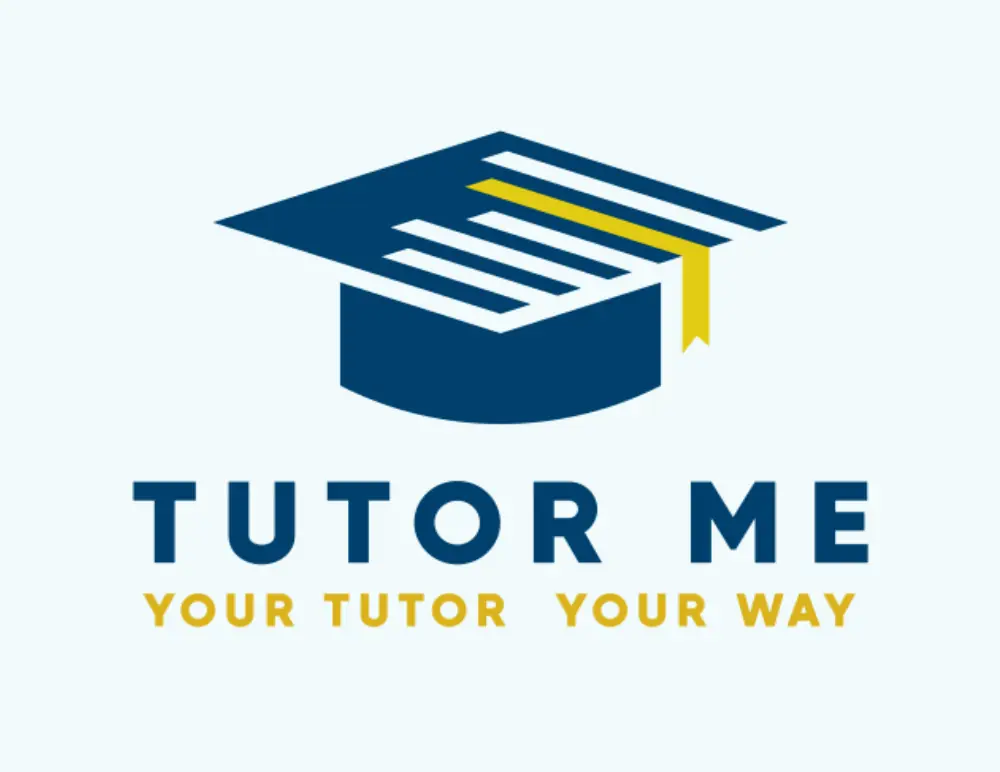
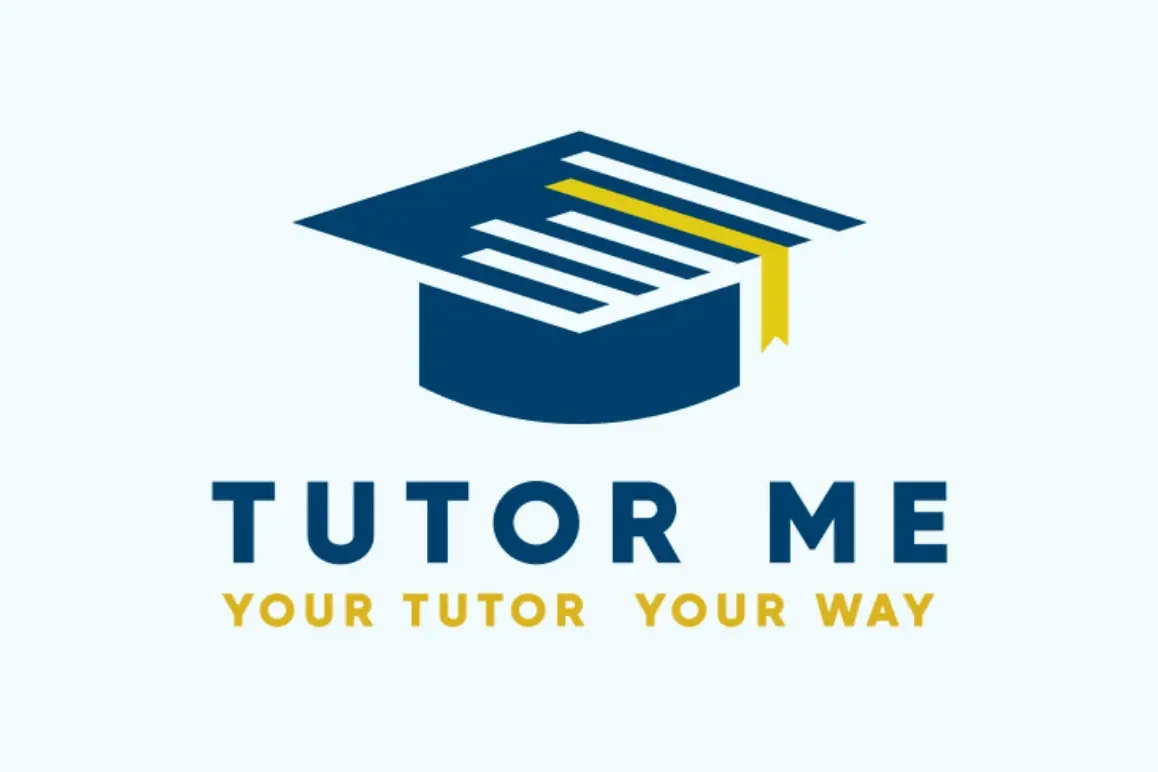
Fix project thumbnail aspect ratios and lazy load bottom 2 projects

diff --git a/index.html b/index.html
@@ -236,6 +236,7 @@
                             class="project-image"
                             src="assets/images/thumbnails/city-story.webp"
                             alt="City Story logo"
+                            loading="lazy"
                     >
                     <div class="project-content">
                         <div class="project-header">
@@ -266,6 +267,7 @@
                             class="project-image"
                             src="assets/images/thumbnails/tutor-me.webp"
                             alt="Tutor Me logo"
+                            loading="lazy"
                     >
                     <div class="project-content">
                         <div class="project-header">

diff --git a/style.css b/style.css
@@ -120,7 +120,7 @@ h2 {
 
 .project-image {
     width: 100%;
-    aspect-ratio: 16 / 9;
+    aspect-ratio: 3 / 2;
     object-fit: cover;
     background: #e0e0e0;
     display: block;
